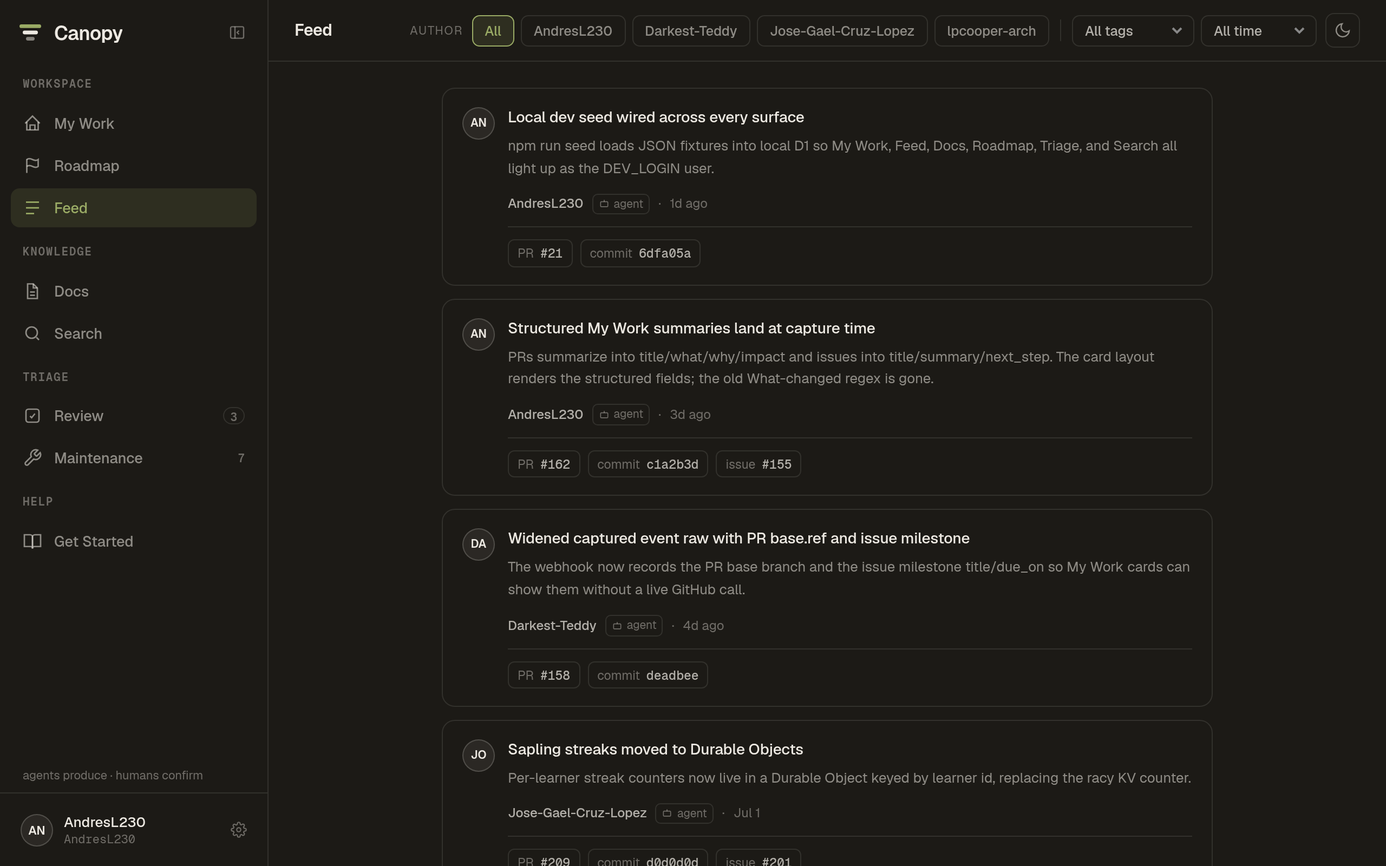
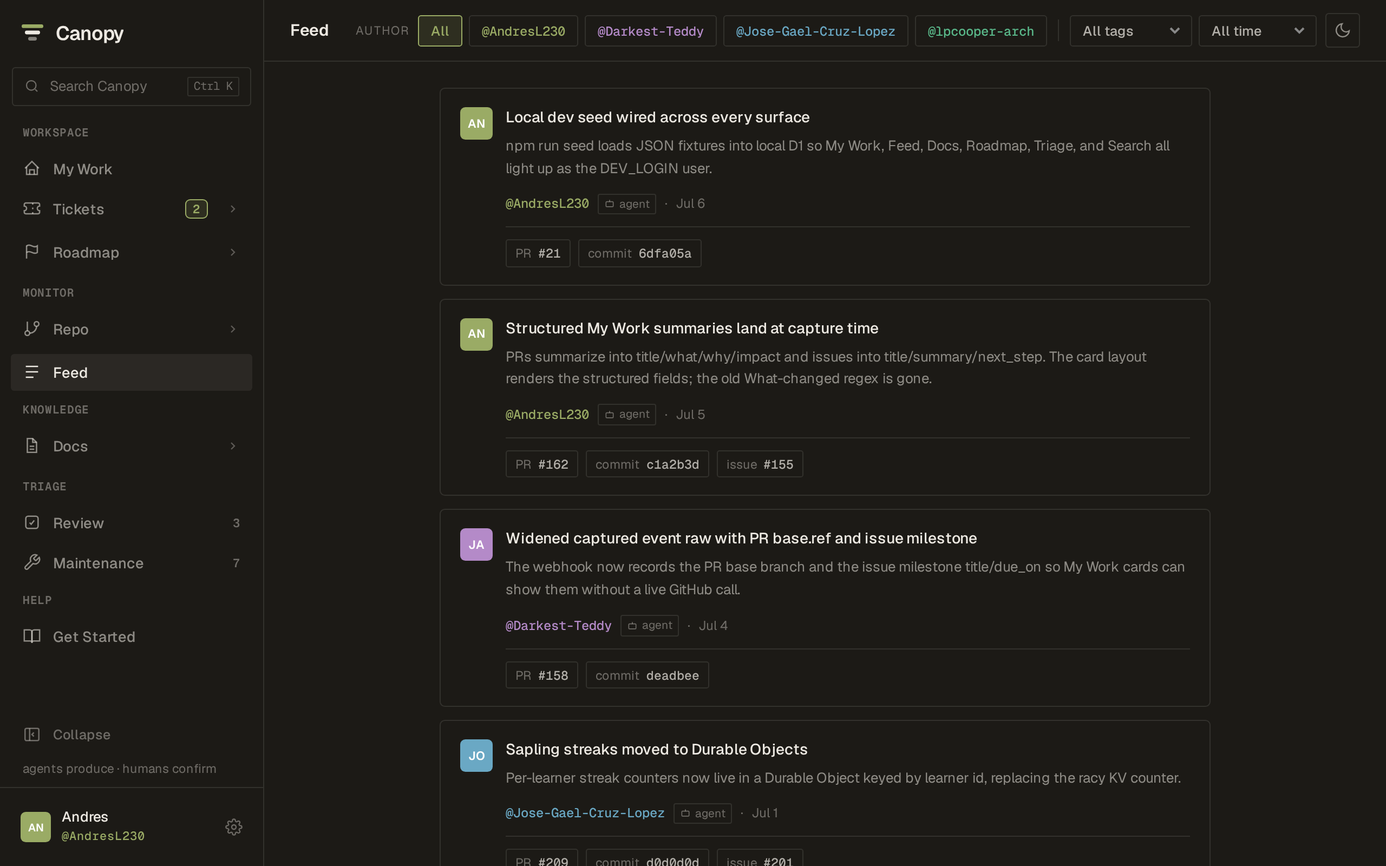
Revamp Get Started for tickets, sprints, the Repo dashboard and the new sidebar, and recapture every figure with Playwright
The guide now follows the current sidebar (Workspace, Monitor, Knowledge,
Triage, Help) and covers what it was missing: the ticket queue, board and
detail, sprint pages, the five-tab Repo dashboard, Maintenance's People and
Notifications, Settings (sign-in methods, themes, email digests), the one-click
Get connection command, the agent's ticket lane, and all seven plugin skills.

scripts/capture-guide.mjs moves from raw CDP to Playwright, opens each figure
by hash route, and adds ticket, board, sprint, repo, repo-usage and connect.
The connect figure shows the production origin with the token masked, and the
minted local token is revoked afterwards so the next theme's Settings is clean.

diff --git a/web/src/render.ts b/web/src/render.ts
@@ -1126,98 +1126,134 @@ function searchView(s: AppState): string {
 
 // ── get started / guide ──────────────────────────────────────────────────────
 function guideView(s: AppState): string {
-  // Screenshots are captured per theme (dark/light/midnight); pick the variant that matches
-  // the viewer's active theme so the figures never clash with the surrounding page.
+  // Screenshots are captured per theme (dark/light/midnight) by scripts/capture-guide.mjs;
+  // pick the variant that matches the viewer's active theme so the figures never clash
+  // with the surrounding page.
   const th = resolved(s);
   const gP = "font-size:14.5px;line-height:1.8;color:var(--fg-70);margin:0 0 4px";
   const gH2 = "font-size:22px;font-weight:600;letter-spacing:-0.02em;margin:8px 0 10px";
   const gH3 = "font-size:17px;font-weight:600;letter-spacing:-0.01em;margin:34px 0 10px";
   const gEyebrow = "font-family:var(--mono);font-size:11px;font-weight:600;text-transform:uppercase;letter-spacing:.11em;color:var(--fg-40);margin:52px 0 2px";
+  const gList = "font-size:14.5px;line-height:1.8;color:var(--fg-70);margin:10px 0 0;padding-left:22px";
   const gStrong = (t: string) => `<strong style="color:var(--fg);font-weight:600">${t}</strong>`;
   const gEm = (t: string) => `<strong style="color:var(--fg-55)">${t}</strong>`;
+  const gCode = (t: string) => `<code style="font-family:var(--mono);font-size:13px">${t}</code>`;
   const gFig = (name: string, cap: string) => `<figure style="margin:18px 0 4px">
-      <img src="/guide/${name}-${th}.png" alt="" style="display:block;width:100%;border:1px solid var(--border);border-radius:12px" />
+      <img src="/guide/${name}-${th}.png" alt="" loading="lazy" style="display:block;width:100%;border:1px solid var(--border);border-radius:12px" />
       <figcaption style="font-size:12px;color:var(--fg-40);margin-top:8px">${cap}</figcaption>
     </figure>`;
   const gPre = (body: string) => `<pre style="background:var(--bg);border:1px solid var(--border);border-radius:10px;padding:14px 16px;overflow-x:auto;margin:12px 0 0"><code style="font-family:var(--mono);font-size:12.5px;line-height:1.6;color:var(--fg-70)">${body}</code></pre>`;
   return `<div class="cnpy-scroll" style="max-width:860px;margin:0 auto;padding:52px 40px 120px">
     <h1 style="font-size:30px;font-weight:650;letter-spacing:-0.025em;margin:0 0 14px">Get Started</h1>
-    <p style="font-size:16px;line-height:1.8;color:var(--fg-70);margin:0 0 14px">Welcome to Canopy, your team's shared memory. It holds the team's docs, decisions, roadmap, and a running feed of everything people and their coding agents have done, and it keeps that memory trustworthy with one golden rule: ${gStrong("agents only ever stage changes; a human confirms the ones that matter")}. Nothing an agent writes goes live until someone approves it, so the store stays reliable no matter how many agents are writing to it.</p>
-    <p style="${gP}">This is a tour of the app, following the sidebar top to bottom (${gStrong("Workspace")}, ${gStrong("Knowledge")}, and ${gStrong("Triage")}), then how to connect your own coding agent.</p>
+    <p style="font-size:16px;line-height:1.8;color:var(--fg-70);margin:0 0 14px">Welcome to Canopy, your team's shared memory. It holds the team's docs, decisions, roadmap, ticket queue, a picture of the repo, and a running feed of everything people and their coding agents have done, and it keeps that memory trustworthy with one golden rule: ${gStrong("agents only ever stage changes; a human confirms the ones that matter")}. Nothing an agent proposes goes live until someone approves it, so the store stays reliable no matter how many agents are writing to it.</p>
+    <p style="${gP}">This is a tour of the app, following the sidebar top to bottom (${gStrong("Workspace")}, ${gStrong("Monitor")}, ${gStrong("Knowledge")}, and ${gStrong("Triage")}), then your settings, and finally how to connect your own coding agent. A few things work everywhere:</p>
+    <ul style="${gList}">
+      <li>${gStrong("Search")} is the box at the top of the sidebar. Press ${gCode("⌘K")} (${gCode("Ctrl K")} on Windows and Linux) from any screen to jump into it.</li>
+      <li>A chevron next to ${gStrong("Tickets")}, ${gStrong("Roadmap")}, ${gStrong("Repo")}, and ${gStrong("Docs")} opens their sub-pages right in the sidebar. ${gStrong("Collapse")} folds the rail down to icons, and hovering an icon names it.</li>
+      <li>Every screen has its own address (${gCode("#tickets/7")}, ${gCode("#sprints/3")}, ${gCode("#repo/usage")}), so you can link a teammate straight to it.</li>
+      <li>The Canopy logo opens the about page; its ${gStrong("Back to the app")} button returns you to where you were.</li>
+    </ul>
 
     <div style="${gEyebrow}">Workspace</div>
     <h2 style="${gH2}">Your day-to-day</h2>
 
     <h3 style="${gH3}">My Work</h3>
-    <p style="${gP}">Canopy opens on ${gStrong("My Work")}, your personal dashboard. It's a read-only projection over captured GitHub events and the ticket queue (no live API calls), so it loads instantly. Three lists: ${gStrong("To-Do")}, your open assigned issues (each with a one-line summary, its sprint, and a suggested next step); ${gStrong("Previous activity")}, your recently merged and closed PRs, each summarized once at capture time; and ${gStrong("Tickets assigned to me")}, the open tickets from the queue that are yours. ${gStrong("Sync GitHub")} pulls the latest events.</p>
-    ${gFig("mywork", `${gEm("My Work")}: your open issues with a summary, sprint, and next step, your recent PRs, and the tickets assigned to you.`)}
+    <p style="${gP}">Canopy opens on ${gStrong("My Work")}, your personal dashboard. It reads only what Canopy has already captured (no live GitHub calls), so it loads instantly. It has three lists: ${gStrong("To-Do")}, your open assigned GitHub issues, each with a short summary, its sprint, and a suggested next step; ${gStrong("Previous activity")}, your recently merged and closed PRs, each summarized once when it was captured; and ${gStrong("Tickets assigned to me")}, your open tickets from the queue. ${gStrong("Sync GitHub")} pulls in the latest issues and PRs.</p>
+    ${gFig("mywork", `${gEm("My Work")}: your open issues with a summary, sprint, and next step, followed by your recent PRs and your tickets.`)}
 
-    <h3 style="${gH3}">Roadmap</h3>
-    <p style="${gP}">${gStrong("Roadmap")} is the admin-authored plan: a narrative of what's happening plus sprints in target-date order. Each sprint's progress comes from its ${gStrong("tickets")} — done plus declined, over the total in that sprint — with overdue flags; the ${gStrong("Narrative")} tab still links the GitHub issues behind a sprint. Toggle between the ${gStrong("Narrative")} digest and the ${gStrong("Timeline")} of sprints.</p>
-    ${gFig("roadmap", `${gEm("Roadmap")}: sprints in target-date order with their ticket progress bars, overdue flags, and the GitHub issues behind each one in the Narrative tab.`)}
+    <h3 style="${gH3}">Tickets</h3>
+    <p style="${gP}">${gStrong("Tickets")} is the team's request queue. Anyone can file one: a bug, a request, a question, or an access ask. Engineers pick them up from there. The badge in the sidebar counts the tickets waiting on you. The ${gStrong("Queue")} is a table grouped by sprint (tickets with no sprint sit in ${gStrong("Backlog")}), and you can filter it by open or closed, by assignee, and by category. ${gStrong("Board")} shows the same tickets as columns, one per status.</p>
+    ${gFig("tickets", `${gEm("Tickets")}: the queue grouped by sprint, with category, priority, status, assignee, and age on every row.`)}
+    ${gFig("board", `${gEm("Board")}: the same queue laid out as status columns.`)}
+    <p style="${gP};margin-top:14px">A ticket moves through ${gStrong("Triage → In progress → Done")}, or it ends as ${gStrong("Declined")}. The status menu only offers moves that are legal from where the ticket is now. Open a ticket to see its ${gStrong("thread")}, where comments sit alongside every status change and ${gCode("@mention")} loops someone in. The side panel holds its assignees, its sprint, and its relations: a ticket can have sub-tickets, one level deep. Under ${gStrong("Linked work")}, paste a GitHub or Figma URL (or a bare ${gCode("#123")}) and it links as soon as you paste. Nothing closes a ticket on its own. A merged PR or a closed issue never marks one done; a person does.</p>
+    ${gFig("ticket", `${gEm("A ticket")}: the description, linked GitHub and Figma work, and the thread, with status, assignees, sprint, and sub-tickets alongside.`)}
+    <p style="${gP};margin-top:14px">${gStrong("New ticket")} (or ${gStrong("Submit a ticket")} in the queue's top bar) opens a short form: a title, a description, a category, and a priority. You can also pick assignees and a sprint when you file it.</p>
+
+    <h3 style="${gH3}">Roadmap &amp; sprints</h3>
+    <p style="${gP}">${gStrong("Roadmap")} is the team's plan: a narrative of where things stand, followed by the sprints in date order. ${gStrong("Narrative")} reads it as a document; ${gStrong("Timeline")} lays the sprints out by date. Every sprint card shows its urgency, due date, domain, lead, and a progress bar that counts that sprint's tickets closed (done or declined) out of its total, plus any GitHub issues it tracks. A sprint past its due date is flagged ${gStrong("Overdue")}.</p>
+    ${gFig("roadmap", `${gEm("Roadmap")}: sprints grouped as in progress and upcoming, each with its urgency, due date, domain, lead, and progress.`)}
+    <p style="${gP};margin-top:14px">${gStrong("Open sprint")} takes you to that sprint's own page: its tickets as cards, its properties, everyone assigned to work in it, and its ${gStrong("resources")}. Resources are the sprint's own links plus every link from its tickets. From there you can mark the sprint active or inactive. Once every ticket and issue in it is closed, the page says it's ${gStrong("ready to complete")} and offers a button to confirm it done. That confirmation is always a person's call; Canopy never completes a sprint on its own. ${gStrong("New sprint")} on the Roadmap creates one.</p>
+    ${gFig("sprint", `${gEm("A sprint")}: its tickets, progress, properties, assignees, and resources on one page.`)}
+
+    <div style="${gEyebrow}">Monitor</div>
+    <h2 style="${gH2}">What's actually happening</h2>
+
+    <h3 style="${gH3}">Repo</h3>
+    <p style="${gP}">${gStrong("Repo")} is a dashboard over the product repository, split into five tabs. ${gStrong("Overview")} shows each environment (staging, production) with its backend and frontend deploys, the CI checks on its branch head, a health verdict, how far staging has drifted ahead of production, and the headline counts. ${gStrong("Code")} covers pull requests, commit activity, and branches. ${gStrong("CI &amp; Deploys")} covers deploy history, CI failures, test coverage, and bundle size. ${gStrong("Usage")} holds traffic, error rates, active users, and the product metrics the app reports. ${gStrong("Team &amp; Planning")} shows the active sprint, open issues by label, and who's been contributing.</p>
+    ${gFig("repo", `${gEm("Repo › Overview")}: both environments with their deploys, checks, and health, plus the drift between them and the headline counts.`)}
+    <p style="${gP};margin-top:14px">Like My Work, the dashboard only reads what Canopy has already captured, from the GitHub webhook and from scheduled polls that run every ten minutes or hourly. So it never waits on GitHub. The screen never guesses, either: a section with nothing captured yet reads ${gStrong("not connected")} and says what it's waiting on, never a made-up zero. ${gStrong("Preview with sample data")} fills every section with placeholder numbers so you can see the full layout (it's labelled on screen and never saved). Admins also get ${gStrong("Poll now")} in the top bar, which refreshes health, usage, and GitHub on demand.</p>
+    ${gFig("repo-usage", `${gEm("Repo › Usage")} (sample data): requests, error rate, and active users per environment, then the app's own product metrics.`)}
 
     <h3 style="${gH3}">Feed</h3>
-    <p style="${gP}">${gStrong("Feed")} is the running timeline of everything that's shipped, from people and their agents alike, newest first. Each entry links to its PR, commit, or issue, and you can filter by author, tag, or time window.</p>
-    ${gFig("feed", `${gEm("Feed")}: one timeline of every change, with PR / commit / issue chips and author, tag, and time filters.`)}
+    <p style="${gP}">${gStrong("Feed")} is the running timeline of everything that's shipped, from people and their agents alike, newest first. Each entry links to its PR, commit, or issue and marks whether an agent wrote it. You can filter by author, tag, or time window.</p>
+    ${gFig("feed", `${gEm("Feed")}: one timeline of every change, with PR, commit, and issue chips and author, tag, and time filters.`)}
 
     <div style="${gEyebrow}">Knowledge</div>
     <h2 style="${gH2}">The living reference</h2>
 
     <h3 style="${gH3}">Docs</h3>
-    <p style="${gP}">The ${gStrong("Docs")} library is the team's living reference, split into two spaces (${gStrong("Technical")} and ${gStrong("Product")}), each grouped into sections like ${gStrong("Architecture")}, ${gStrong("Engineering Guide")}, and ${gStrong("Decisions")}. Open a doc and its ${gStrong("heading outline")} expands in the tree so you can jump to any section, and it tracks your scroll position as you read. Every doc is versioned: an agent's proposed update lands as a ${gStrong("staged")} new version while the current one stays live and untouched, with a banner up top pointing you to the proposal. Promote it in Review and the new version goes live; prior versions are never overwritten, just superseded.</p>
-    ${gFig("docs", `${gEm("Docs")}: the Technical / Product library. Opening a doc expands its heading outline in the tree; the STAGED banner flags a proposal awaiting review.`)}
+    <p style="${gP}">The ${gStrong("Docs")} library is the team's living reference. It's split into two spaces, ${gStrong("Technical")} and ${gStrong("Product")}, and each is grouped into sections like ${gStrong("Architecture")}, ${gStrong("Engineering Guide")}, and ${gStrong("Decisions")}. When you open a doc, its ${gStrong("heading outline")} expands in the tree so you can jump to any section, and the outline follows along as you scroll. Every doc is versioned. When an agent proposes an update, it lands as a ${gStrong("staged")} new version while the current one stays live and untouched, and a banner at the top points you to the proposal. Promote it in Review and the new version goes live. ${gStrong("Version history")} keeps every earlier version; nothing is overwritten.</p>
+    ${gFig("docs", `${gEm("Docs")}: the Technical and Product library. The open doc's heading outline expands in the tree, and the STAGED banner flags a proposal awaiting review.`)}
 
     <h3 style="${gH3}">Search</h3>
-    <p style="${gP}">${gStrong("Search")} runs full-text across everything (docs, decisions, the feed, and the roadmap), ranked by relevance. It returns whole entries plus pointers to related ones, and every result is tagged ${gStrong("live")} or ${gStrong("staged")} so you can tell settled context from a proposal that hasn't been promoted yet.</p>
+    <p style="${gP}">${gStrong("Search")} runs a full-text search across docs, decisions, the feed, the roadmap, sprints, and tickets, ranked by relevance. Every result is tagged ${gStrong("live")} or ${gStrong("staged")}, so you can tell settled context from a proposal that hasn't been promoted yet. Start typing in the sidebar box and it opens here.</p>
     ${gFig("search", `${gEm("Search")}: ranked full-text results across every type, each flagged LIVE or STAGED, with your query highlighted.`)}
 
     <div style="${gEyebrow}">Triage</div>
     <h2 style="${gH2}">Where humans confirm</h2>
-    <p style="${gP}">The ${gStrong("Triage")} section is the human's desk, where agent-produced changes get a verdict. It's split into two surfaces.</p>
+    <p style="${gP}">The ${gStrong("Triage")} section is the human's desk, where agent-produced changes get a verdict. The counts in the sidebar show what's waiting in each of its two screens.</p>
 
     <h3 style="${gH3}">Review</h3>
-    <p style="${gP}">${gStrong("Review")} is one queue for everything awaiting a decision: staged doc ${gStrong("proposals")}, shown as a diff against the live version (unified, side-by-side, or rendered), and drafted ${gStrong("decisions")} (ADRs), shown as the proposed record. On each item you ${gStrong("Promote")} the doc (or ${gStrong("Ratify")} the decision) or ${gStrong("Reject")} it; edits made against a stale version are flagged.</p>
-    ${gFig("review", `${gEm("Review")}: the queue on the left, the selected proposal's diff on the right, ready to Promote or Reject.`)}
+    <p style="${gP}">${gStrong("Review")} is one queue for everything awaiting a decision. Staged doc ${gStrong("proposals")} appear as a diff against the live version, which you can view unified, side by side, or rendered. Drafted ${gStrong("decisions")} (ADRs) appear as the proposed record. On each item you can ${gStrong("Promote")} the doc (or ${gStrong("Ratify")} the decision), or ${gStrong("Reject")} it. An edit written against an out-of-date version is flagged.</p>
+    ${gFig("review", `${gEm("Review")}: the queue on the left and the selected proposal's diff on the right, ready to Promote or Reject.`)}
 
     <h3 style="${gH3}">Maintenance</h3>
-    <p style="${gP}">${gStrong("Maintenance")} is occasional housekeeping; empty is the normal state. ${gStrong("Unplaced")} holds anything an agent couldn't confidently place: read it, then route it where it belongs or ${gStrong("Discard")} it. ${gStrong("Identity")} matches unrecognized activity logins to people. Nothing here is ever hard-deleted.</p>
+    <p style="${gP}">${gStrong("Maintenance")} is occasional housekeeping, and empty is its normal state. ${gStrong("Unplaced")} holds anything an agent couldn't confidently place: read it, then route it where it belongs or ${gStrong("Discard")} it. ${gStrong("Identity")} matches unrecognized GitHub logins to people. Admins also see ${gStrong("People")}, where they invite a teammate by Google address, and the ${gStrong("Notifications")} controls: which email digests exist, when they send, and a log of recent sends. Nothing here is ever hard-deleted.</p>
     ${gFig("maintenance", `${gEm("Maintenance")}: the Unplaced queue, where anything an agent couldn't place waits to be routed or discarded.`)}
+
+    <div style="${gEyebrow}">You</div>
+    <h2 style="${gH2}">Settings</h2>
+    <p style="${gP}">Click your name at the bottom of the sidebar to open ${gStrong("Settings")}. ${gStrong("Profile")} sets your display name, your handle, and the color that marks you across the app. ${gStrong("Account")} shows how you're signed in. You can link both ${gStrong("GitHub")} and ${gStrong("Google")} and sign in with either (one always stays linked). ${gStrong("Appearance")} switches between Light, Dark, Midnight, and System. ${gStrong("Email notifications")} is where you set each digest (your work, the review queue, roadmap changes, the ticket queue) to daily, weekly, or off, or unsubscribe from everything at once.</p>
+    ${gFig("settings", `${gEm("Settings")}: profile, sign-in methods, MCP access tokens, appearance, and email digests.`)}
 
     <div style="${gEyebrow}">Connect your agent</div>
     <h2 style="${gH2}">Plug in your coding agent</h2>
-    <p style="${gP}">Everything above is also open to your coding agent over the ${gStrong("Model Context Protocol")}. First, get a token:</p>
-    <ol style="font-size:14.5px;line-height:1.8;color:var(--fg-70);margin:10px 0 0;padding-left:22px">
-      <li>You're already signed in, so that's step one done.</li>
-      <li>Open ${gStrong("Settings")} and, under ${gStrong("MCP access tokens")}, click ${gStrong("Get connection command")}. It creates a token and hands you the exact setup for Claude Code, Codex or a plain <code style="font-family:var(--mono);font-size:13px">.mcp.json</code> with it filled in. Copy it before closing, since it's shown only once.</li>
+    <p style="${gP}">Everything above is also open to your coding agent over the ${gStrong("Model Context Protocol")} (MCP). Your agent acts as you, so it sees what you see and its writes are recorded as yours. Connecting takes one click:</p>
+    <ol style="${gList}">
+      <li>Open ${gStrong("Settings")} and, under ${gStrong("MCP access tokens")}, click ${gStrong("Get connection command")}.</li>
+      <li>Pick your agent (${gStrong("Claude Code")}, ${gStrong("Codex")}, a ${gCode(".mcp.json")} file, or just the token) and copy the setup. It already has a fresh token and this Canopy's address filled in.</li>
+      <li>Paste it and restart your agent. The token is shown only this once, so copy it before you close the window. It stays listed under MCP access tokens, where ${gStrong("Revoke")} disconnects that agent immediately.</li>
     </ol>
-    ${gFig("settings", `${gEm("Settings")}: mint an MCP access token, pick a theme, and see your org membership.`)}
-    <p style="${gP};margin-top:14px">${gStrong("Easiest: install the Canopy plugin.")} It bundles the three skills below ${gStrong("and")} the MCP connection, so there's nothing to wire by hand. In Claude Code:</p>
+    ${gFig("connect", `${gEm("Get connection command")}: pick your client, copy the ready-made setup. (The token is hidden in this screenshot.)`)}
+    <p style="${gP};margin-top:14px">${gStrong("Using Claude Code? Install the Canopy plugin as well.")} It bundles the skills described below ${gStrong("and")} the MCP connection, so there's nothing to wire by hand:</p>
     ${gPre(`/plugin marketplace add SaplingLearn/canopy
 /plugin install canopy@canopy`)}
     <p style="${gP};margin-top:12px">The plugin reads your token from an environment variable, so export it in the shell that launches your agent (add it to your shell profile to make it stick), then restart:</p>
     ${gPre(`export CANOPY_MCP_TOKEN=canopy_mcp_…`)}
-    <p style="${gP};margin-top:14px">${gStrong("Prefer to wire it by hand")}, or running your own Canopy? Skip the plugin and drop a <code style="font-family:var(--mono);font-size:13px">.mcp.json</code> in your project with the token as a bearer header, then restart your agent:</p>
-    ${gPre(`{
-  "mcpServers": {
-    "canopy": {
-      "type": "streamable-http",
-      "url": "https://&lt;your-canopy-host&gt;/mcp",
-      "headers": { "Authorization": "Bearer canopy_mcp_…" }
-    }
-  }
-}`)}
-    <p style="${gP};margin-top:14px">Once connected, your agent can read everything with ${gStrong("query")} (ranked, authority-flagged search) and ${gStrong("get_doc")}, and add new context with ${gStrong("append_feed")} and ${gStrong("propose_doc_update")}. Exactly like the UI, those writes are ${gStrong("staged")}: they land in Review for you to confirm, never straight into the live store. The gate de-duplicates no-op writes and tags each doc change as new, edit, or rewrite, so re-running a session never piles up noise.</p>
+    <p style="${gP};margin-top:14px">Once your agent is connected, this is what it can do:</p>
+    <ul style="${gList}">
+      <li>${gStrong("Read everything.")} ${gCode("query")} is a ranked search that tags every result with its authority (live or staged), and ${gCode("get_doc")} fetches a single doc. Your agent can also read the roadmap and sprints, the ticket queue, your My Work, and the Repo dashboard (${gCode("get_repo_dashboard")}).</li>
+      <li>${gStrong("Propose context.")} ${gCode("append_feed")}, ${gCode("propose_doc_update")}, and ${gCode("record_session")} are ${gStrong("staged")}, just like in the app. They land in Review for a person to confirm and never go straight into the live store. Writing the same thing twice changes nothing, and each doc change is labelled new, edit, or rewrite, so re-running a session never piles up noise.</li>
+      <li>${gStrong("Work your tickets.")} Your agent can file a ticket, and on tickets ${gStrong("you're assigned to")} it can move the status, comment, add links, set the sprint, or nest it under another ticket. It can't touch anyone else's tickets, and it can't change who a ticket is assigned to.</li>
+      <li>${gStrong("Admins")} also get ${gCode("update_plan")} to reshape the roadmap, plus the sprint tools.</li>
+    </ul>
 
     <div style="${gEyebrow}">The living loop</div>
     <h2 style="${gH2}">How Canopy stays current</h2>
-    <p style="${gP}">The thing that keeps Canopy alive isn't any one screen; it's a loop your agent runs every session: ${gStrong("orient → work → record")}. Three Claude Code skills (under <code style="font-family:var(--mono);font-size:13px">.claude/skills/</code>) drive it, and they're the real heart of the system.</p>
-    <ol style="font-size:14.5px;line-height:1.8;color:var(--fg-70);margin:10px 0 0;padding-left:22px">
-      <li>${gStrong("Orient: load-context.")} Fires on its own before your agent works an area it has touched before, and always before it proposes a doc change. It calls the read-only ${gStrong("query")} tool, reads the assembled authoritative bodies, and respects each result's authority flag, so the agent builds on what the team already knows instead of re-deriving it. It never writes.</li>
-      <li>${gStrong("Work.")} The agent does the task, now grounded in real context rather than guesses.</li>
-      <li>${gStrong("Record: record-session.")} You ask for it explicitly at the end ("record this session"; it never fires on its own). It observes what actually shipped from <code style="font-family:var(--mono);font-size:13px">git</code>/<code style="font-family:var(--mono);font-size:13px">gh</code>, reads the docs it touched back from Canopy so it writes a true delta from a known base, and stages one reconciled batch through the ${gStrong("record_session")} MCP tool, over the same bearer connection you set up above, with no extra auth. The gate drops no-ops, tags each doc change new/edit/rewrite, and routes anything low-confidence or out-of-vocab to Maintenance.</li>
+    <p style="${gP}">What keeps Canopy alive isn't any one screen. It's a loop your agent runs every session: ${gStrong("orient → work → record")}. Claude Code skills drive it, and they're the real heart of the system.</p>
+    <ol style="${gList}">
+      <li>${gStrong("Orient: load-context.")} This skill runs on its own before your agent works on an area the team already has context for, and always before it proposes a doc change. It calls the read-only ${gStrong("query")} tool, reads what comes back, and checks each result's authority, so the agent builds on what the team already knows instead of working it out from scratch. It never writes. At the start of a session it also pulls your My Work.</li>
+      <li>${gStrong("Work.")} The agent does the task, grounded in real context instead of guesses.</li>
+      <li>${gStrong("Record: record-session.")} You ask for it at the end ("record this session"); it never runs on its own. It checks what actually shipped using ${gCode("git")} and ${gCode("gh")}, reads the docs it touched back from Canopy so its changes build on the latest version, and stages everything as one batch through the ${gStrong("record_session")} tool. Changes that repeat what's already there are dropped, and anything low-confidence goes to Maintenance.</li>
     </ol>
-    <p style="${gP};margin-top:12px">Then you ${gStrong("confirm")} in Review. That's the whole point: agents feed the store continuously, a human curates what matters, and because nothing goes live unreviewed, and every session writes back what it learned, the context stays trustworthy and current instead of going stale. This loop is the difference between a wiki that rots and a memory that grows.</p>
-    <p style="${gP}">${gStrong("canopy")} is the umbrella skill that maps all of this and carries the full ${gStrong("query")} reference; ${gStrong("load-context")} and ${gStrong("record-session")} are the two halves it composes, kept separate because one must fire on its own and the other must never. The Canopy plugin (above) ships all three, so installing it is all it takes to get them in any project, with no copying by hand.</p>
+    <p style="${gP};margin-top:12px">Then you ${gStrong("confirm")} in Review. That's the whole point: agents feed the store continuously and a human curates what matters. Nothing goes live unreviewed, and every session writes back what it learned, so the context stays trustworthy and current instead of going stale. This loop is the difference between a wiki that rots and a memory that grows.</p>
+    <p style="${gP}">The plugin ships these skills alongside the loop:</p>
+    <ul style="${gList}">
+      <li>${gStrong("canopy")}: the overview that maps the whole system, including the full ${gStrong("query")} reference. Start here if you're unsure.</li>
+      <li>${gStrong("tickets")}: works the ticket queue from your terminal. It checks the ticket is yours to change, shows a one-line diff, makes one change, and reports the new state. Admins can manage sprints with it too.</li>
+      <li>${gStrong("my-work")}: "what's on my plate?" answered from your My Work.</li>
+      <li>${gStrong("read-plan")} and ${gStrong("update-plan")} (admins): read the roadmap against what actually shipped, and push a reshaped plan back.</li>
+    </ul>
   </div>`;
 }
 

diff --git a/test/render.mywork.test.ts b/test/render.mywork.test.ts
@@ -540,21 +540,26 @@ describe("render() — the Get Started guide", () => {
 
   it("describes My Work as THREE lists, with the issue's sprint (never its milestone)", () => {
     const html = render(guideState());
-    expect(html).toContain("Three lists");
-    expect(html).not.toContain("Two lists");
+    expect(html).toContain("three lists");
+    expect(html).not.toContain("two lists");
     expect(html).toContain("To-Do");
     expect(html).toContain("Previous activity");
     expect(html).toContain("Tickets assigned to me");
     expect(html).toContain("its sprint");
   });
 
-  it("says sprint progress comes from its TICKETS, and the Narrative tab still links the GitHub issues", () => {
+  it("says sprint progress counts its TICKETS closed (done or declined), plus the GitHub issues it tracks", () => {
     const html = render(guideState());
-    expect(html).toMatch(/progress comes from its[\s\S]{0,60}tickets/);
-    expect(html).toContain("done plus declined, over the total in that sprint");
-    expect(html).toMatch(/Narrative[\s\S]{0,80}links the GitHub issues behind a sprint/);
+    expect(html).toMatch(/progress bar that counts that sprint's tickets closed \(done or declined\) out of its total, plus any GitHub issues it tracks/);
     // The old cache-only wording is gone.
     expect(html).not.toContain("closed/total issue counts recomputed from GitHub events");
+  });
+
+  it("shows a figure for every screen in the sidebar, the ticket and sprint pages, and the connect modal", () => {
+    const html = render(guideState());
+    for (const name of ["mywork", "tickets", "board", "ticket", "roadmap", "sprint", "repo", "repo-usage", "feed", "docs", "search", "review", "maintenance", "settings", "connect"]) {
+      expect(html).toContain(`/guide/${name}-`);
+    }
   });
 
   it("carries no user-facing 'milestone' string anywhere in the guide", () => {
